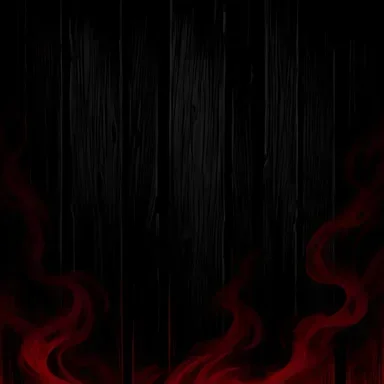
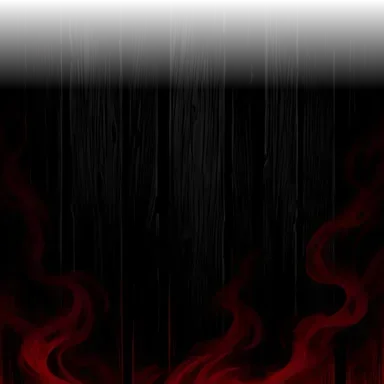
Tamahagane 2.9.1: tło kolumn na pełną wysokość ekranu
Drewno powtarzane w pionie bez szwu nad dolnym obrazkiem z dymem, który miękko w nie przechodzi – bez płaskiego pasa i krawędzi na wysokim ekranie.

Changed region(s): [[0.0, 0.0, 1.0, 0.2188]]

diff --git a/margonem-tamahagane/margonem-tamahagane.user.js b/margonem-tamahagane/margonem-tamahagane.user.js
@@ -1,7 +1,7 @@
 // ==UserScript==
 // @name         Margonem – Tamahagane
 // @namespace    https://github.com/Harkryn/Dodatki
-// @version      2.9.0
+// @version      2.9.1
 // @description  Motyw nowego interfejsu (NI) z hartowanej stali tamahagane: żelazo z żarzącymi się pęknięciami, czarny lakier, tsuba i płynny żar. Tylko wygląd – bez zmian w logice gry.
 // @author       Harkryn
 // @match        https://*.margonem.pl/*
@@ -24,6 +24,7 @@
 // @resource     tmgWinTitle  https://raw.githubusercontent.com/Harkryn/Dodatki/main/assets/tamahagane/okno-tytul.webp
 // @resource     tmgButton    https://raw.githubusercontent.com/Harkryn/Dodatki/main/assets/tamahagane/przycisk.webp
 // @resource     tmgColumn    https://raw.githubusercontent.com/Harkryn/Dodatki/main/assets/tamahagane/kolumna-tlo.webp
+// @resource     tmgColTile   https://raw.githubusercontent.com/Harkryn/Dodatki/main/assets/tamahagane/kolumna-kafel.webp
 // @resource     tmgFrameThin https://raw.githubusercontent.com/Harkryn/Dodatki/main/assets/tamahagane/ramka-cienka.webp
 // @resource     tmgToggle    https://raw.githubusercontent.com/Harkryn/Dodatki/main/assets/tamahagane/przelacznik.webp
 // @resource     tmgMedal     https://raw.githubusercontent.com/Harkryn/Dodatki/main/assets/tamahagane/medalion-pvp.webp
@@ -49,7 +50,7 @@
   // Stary interfejs (SI): gra zapisuje wybór w ciasteczku `interface` – w SI nic nie robimy.
   try { if (/(?:^|;\s*)interface=si\b/i.test(document.cookie || '')) return; } catch (e) { /* brak ciasteczek */ }
 
-  const VERSION = '2.9.0';
+  const VERSION = '2.9.1';
   const ON = 'tmg-on';          // motyw włączony
   const FX = 'tmg-fx';          // efekty (popiół, mgła) włączone
   const KEY_ON = 'tmg-enabled';
@@ -81,7 +82,8 @@
     winFrame: res('tmgWinFrame', 'okno-rama.webp'),    // 256×258, rama okien: kamienie z lawą, kolce w narożnikach (9-slice, wycinek 32)
     winTitle: res('tmgWinTitle', 'okno-tytul.webp'),   // 300×130, tytuł okna: żelazna płytka z lawą, zakrzywione kolce na końcach (końce 62 px)
     button: res('tmgButton', 'przycisk.webp'),         // 150×78, przycisk: czarny lakier w kutej oprawie z nitami (9-slice, wycinek 22)
-    column: res('tmgColumn', 'kolumna-tlo.webp'),      // 384×384, tło kolumn: czarne drewno, czerwony dym u dołu
+    column: res('tmgColumn', 'kolumna-tlo.webp'),      // 384×384, dół kolumn: czarne drewno, czerwony dym (góra miękko wygaszona)
+    colTile: res('tmgColTile', 'kolumna-kafel.webp'),  // 384×150, kafel drewna powtarzany w pionie nad dołem kolumny (bez szwu)
     frameThin: res('tmgFrameThin', 'ramka-cienka.webp'), // 128×131, cienka rama: kute żelazo z linią żaru (9-slice, wycinek 9 10 10 9)
     toggle: res('tmgToggle', 'przelacznik.webp'),      // 64×64, tsuba z żelaza z płomiennymi wycięciami (przełącznik motywu)
     medal: res('tmgMedal', 'medalion-pvp.webp'),       // 48×61, medalion PvP: żelazny pierścień z lawą i haczykiem; otwór (23.5, 36) r 13.75
@@ -445,7 +447,7 @@ ${N} .button.disable { filter: grayscale(.7) brightness(.65); }
    * ===================================================================== */
   const cssChat = `
 ${N} .interface-layer > .left-column.main-column,
-${N} .new-chat-window { background: linear-gradient(rgb(7 5 5 / .25), rgb(7 5 5 / .25)), url("${IMG.column}") center bottom / 100% auto no-repeat, var(--tmg-k0) !important; }
+${N} .new-chat-window { background: linear-gradient(rgb(7 5 5 / .25), rgb(7 5 5 / .25)), url("${IMG.column}") center bottom / 100% auto no-repeat, url("${IMG.colTile}") center top / 100% auto repeat-y, var(--tmg-k0) !important; }
 /* listwy kolumn: pionowa belka czarnego lakieru z czerwonym sznurem pośrodku */
 ${N} .interface-layer > .left-column.main-column > .border,
 ${N} .interface-layer > .right-column.main-column > .border {
@@ -523,7 +525,7 @@ ${N} .new-chat-window .chat-notification { text-shadow: 0 1px 2px #000; }
    * Ikony przedmiotów i ramki rzadkości w slotach zostają nietknięte.
    * ===================================================================== */
   const cssInventory = `
-${N} .interface-layer > .right-column.main-column { background: linear-gradient(rgb(7 5 5 / .25), rgb(7 5 5 / .25)), url("${IMG.column}") center bottom / 100% auto no-repeat, var(--tmg-k0) !important; }
+${N} .interface-layer > .right-column.main-column { background: linear-gradient(rgb(7 5 5 / .25), rgb(7 5 5 / .25)), url("${IMG.column}") center bottom / 100% auto no-repeat, url("${IMG.colTile}") center top / 100% auto repeat-y, var(--tmg-k0) !important; }
 ${N} .interface-element-grid-border,
 ${N} .interface-element-grid-border-light {
   outline-color: var(--tmg-k0) !important;

diff --git a/assets/tamahagane/PROMPTS.md b/assets/tamahagane/PROMPTS.md
@@ -72,3 +72,6 @@ Stylized hand-painted dark fantasy game UI tooltip panel, front view, square, a 
 
 ## tooltip-tlo.webp (Z-Image Turbo 4:3, przyciemniony lokalnie, 640×480; skrypt przebarwia chmury na kolor rangi)
 Full-frame flat texture, hand-painted stylized: deep warm black lacquer surface (#0b0707) with very faint soft drifting smoke wisps in dark warm grey and a subtle hint of deep crimson, like diluted sumi-e ink wash clouds spread across the whole surface, very low contrast, no blue, no teal, no frame, no border, no objects, no symbols, no letters, fills the whole image edge to edge
+
+## kolumna-kafel.webp (pochodna kolumna-tlo.webp, bez nowego promptu)
+Górne 150 px kolumna-tlo (samo drewno) z przenikaniem 46 px, żeby kafel łączył się bez szwu w pionie. kolumna-tlo.webp dostał wygaszoną alfą górę (90 px), więc przechodzi w kafel – tło kolumn sięga pełnej wysokości ekranu.
